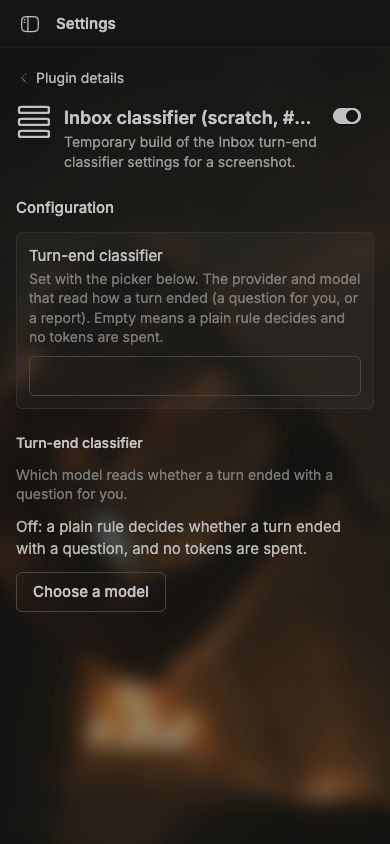
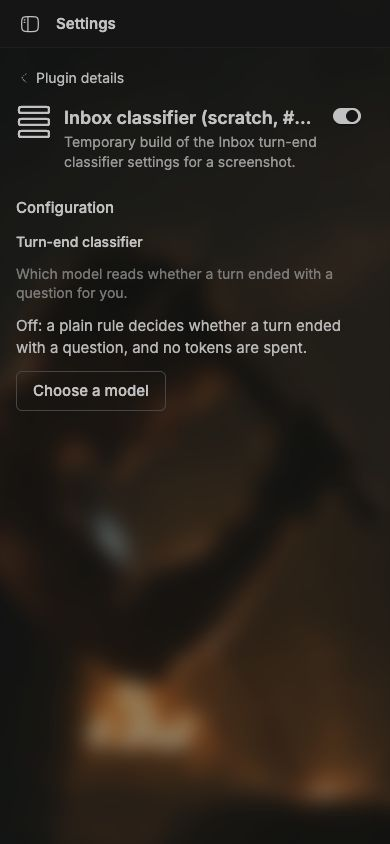
Keep the classifier choice in plugin KV, not a bb setting
The user chose on #20 to hide the raw JSON settings field: the settings
page now shows only bb's model picker with Save / Turn off. The choice is
read and written through getTurnEndClassifier / setTurnEndClassifier, with a
turn-end-classifier realtime nudge so other open settings pages refresh.

Changed region(s): [[0.0308, 0.2773, 0.9231, 0.7085]]

diff --git a/server/classifier/selection.ts b/server/classifier/selection.ts
@@ -1,13 +1,16 @@
 import type { BbPluginApi } from "@get-bb/plugin-sdk";
 import { z } from "zod";
 
-// The provider, model and reasoning level the helper thread runs on, held in
-// one plugin setting as JSON. Empty (the default) means no provider: the
-// heuristic decides and no tokens are spent. The settings page sets it with
-// bb's provider/model picker (app/classifier/ClassifierSettingsSection.tsx);
-// `bb plugin config inbox set turnEndClassifier ""` turns it off.
+// The provider, model and reasoning level the helper thread runs on. Kept in
+// the plugin's KV rather than a bb setting, so the settings page shows only
+// bb's model picker and no raw JSON field (the user's call on #20). Unset
+// (the default) means no provider: the heuristic decides and no tokens are
+// spent. The settings page sets it (app/classifier/ClassifierSettingsSection.tsx)
+// through the `setTurnEndClassifier` rpc.
 
-export const SELECTION_SETTING = "turnEndClassifier";
+const SELECTION_KV_KEY = "classifier:selection";
+
+export const SELECTION_CHANGED_CHANNEL = "turn-end-classifier";
 
 export const selectionSchema = z
   .object({
@@ -20,48 +23,18 @@ export const selectionSchema = z
 
 export type ClassifierSelection = z.infer<typeof selectionSchema>;
 
-export function parseSelection(raw: string): ClassifierSelection | null {
-  if (raw.trim() === "") return null;
-  try {
-    const parsed = selectionSchema.safeParse(JSON.parse(raw));
-    return parsed.success ? parsed.data : null;
-  } catch {
-    return null;
-  }
-}
-
-export function serializeSelection(selection: ClassifierSelection | null): string {
-  return selection === null ? "" : JSON.stringify(selection);
-}
-
-export function defineSelectionSetting(bb: BbPluginApi) {
-  const settings = bb.settings.define({
-    [SELECTION_SETTING]: {
-      type: "string",
-      label: "Turn-end classifier",
-      description:
-        "Set with the picker below. The provider and model that read how a turn ended (a question for you, or a report). Empty means a plain rule decides and no tokens are spent.",
-      default: "",
-      experimental_schema: z
-        .string()
-        .refine(
-          (value) => value.trim() === "" || parseSelection(value) !== null,
-          "Must be empty, or JSON with providerId, model and reasoningLevel",
-        ),
-    },
-  });
-
+export function createSelectionStore(bb: BbPluginApi) {
   return {
     async get(): Promise<ClassifierSelection | null> {
-      const values = await settings.get();
-      return parseSelection(values[SELECTION_SETTING]);
+      const parsed = selectionSchema.safeParse(
+        await bb.storage.kv.get<unknown>(SELECTION_KV_KEY),
+      );
+      return parsed.success ? parsed.data : null;
     },
     async set(selection: ClassifierSelection | null): Promise<void> {
-      await settings.experimental_set({
-        [SELECTION_SETTING]: serializeSelection(selection),
-      });
+      if (selection === null) await bb.storage.kv.delete(SELECTION_KV_KEY);
+      else await bb.storage.kv.set(SELECTION_KV_KEY, selection);
+      bb.realtime.publish(SELECTION_CHANGED_CHANNEL, { selection });
     },
   };
 }
-
-export type SelectionSetting = ReturnType<typeof defineSelectionSetting>;

diff --git a/app/classifier/ClassifierSettingsSection.tsx b/app/classifier/ClassifierSettingsSection.tsx
@@ -1,16 +1,15 @@
 import {
   experimental_ProviderModelPicker as ProviderModelPicker,
   experimental_useProviders,
+  useRealtime,
   useRpc,
-  useSettings,
   type ExperimentalProviderModelPickerValue,
 } from "@get-bb/plugin-sdk/app";
-import { useState } from "react";
+import { useCallback, useEffect, useRef, useState } from "react";
 import { Button } from "@/components/ui/button";
 import type { turnEndRpcContract } from "../../server/classifier/index.js";
 import {
-  parseSelection,
-  SELECTION_SETTING,
+  SELECTION_CHANGED_CHANNEL,
   type ClassifierSelection,
 } from "../../server/classifier/selection.js";
 
@@ -20,20 +19,34 @@ import {
 // seed against the live catalog, and that must never start spending tokens.
 
 export function ClassifierSettingsSection() {
-  const { values, isLoading } = useSettings();
   const rpc = useRpc<typeof turnEndRpcContract>();
   const providers = experimental_useProviders();
-  const saved = parseSelection(String(values?.[SELECTION_SETTING] ?? ""));
+  // undefined while loading; null when off.
+  const [saved, setSaved] = useState<ClassifierSelection | null | undefined>(undefined);
   const [editing, setEditing] = useState(false);
   const [draft, setDraft] = useState<ExperimentalProviderModelPickerValue | null>(null);
   const [saving, setSaving] = useState(false);
   const [error, setError] = useState<string | null>(null);
 
+  const rpcRef = useRef(rpc);
+  rpcRef.current = rpc;
+  const load = useCallback(async () => {
+    try {
+      setSaved((await rpcRef.current.call("getTurnEndClassifier", null)).selection);
+    } catch (cause) {
+      setError(cause instanceof Error ? cause.message : String(cause));
+    }
+  }, []);
+  useEffect(() => {
+    void load();
+  }, [load]);
+  useRealtime(SELECTION_CHANGED_CHANNEL, () => void load());
+
   async function save(selection: ClassifierSelection | null) {
     setSaving(true);
     setError(null);
     try {
-      await rpc.call("setTurnEndClassifier", { selection });
+      setSaved((await rpc.call("setTurnEndClassifier", { selection })).selection);
       setDraft(null);
       setEditing(false);
     } catch (cause) {
@@ -43,7 +56,9 @@ export function ClassifierSettingsSection() {
     }
   }
 
-  if (isLoading) return null;
+  if (saved === undefined) {
+    return error ? <p className="text-sm text-destructive">{error}</p> : null;
+  }
 
   const firstProvider = providers.providers.find((provider) => provider.available);
   const pickerValue: ExperimentalProviderModelPickerValue | null =

diff --git a/server/classifier/classifier.test.ts b/server/classifier/classifier.test.ts
@@ -52,9 +52,6 @@ function helperThread(id = `thr_helper${(helperCount += 1)}`): Thread {
 async function setup(options: Setup = {}) {
   const { bb, harness } = createFakePluginHost({
     pluginId: PLUGIN_ID,
-    settings: options.provider
-      ? { turnEndClassifier: JSON.stringify(SELECTION) }
-      : {},
     sdk: {
       projects: {
         list: async () =>
@@ -83,6 +80,7 @@ async function setup(options: Setup = {}) {
       },
     },
   });
+  if (options.provider) await bb.storage.kv.set("classifier:selection", SELECTION);
   if (options.watermark !== undefined) {
     await bb.storage.kv.set("turnEnd:watermark", options.watermark);
   }
@@ -613,11 +611,21 @@ describe("turn-end classifier: the turnEnds rpc", () => {
     ).resolves.toEqual({ thr_helper_x: null, thr_archived: null, thr_hidden: null });
   });
 
-  it("turns the helper on and off through the setting the picker writes", async () => {
+  it("turns the helper on and off through the rpc the picker's Save writes", async () => {
     const host = await start({ provider: false, spawn: recordingSpawn() }, 30);
+    await expect(
+      host.harness.behavior.callRpc("getTurnEndClassifier", null),
+    ).resolves.toEqual({ selection: null });
     await expect(
       host.harness.behavior.callRpc("setTurnEndClassifier", { selection: SELECTION }),
     ).resolves.toEqual({ selection: SELECTION });
+    await expect(
+      host.harness.behavior.callRpc("getTurnEndClassifier", null),
+    ).resolves.toEqual({ selection: SELECTION });
+    expect(host.harness.realtimeSignals).toContainEqual({
+      channel: "turn-end-classifier",
+      payload: { selection: SELECTION },
+    });
     await host.harness.behavior.emitThreadEvent("thread.idle", {
       thread: thread({ latestAttentionAt: 1 }),
       lastAssistantText: "Done.",
@@ -627,6 +635,9 @@ describe("turn-end classifier: the turnEnds rpc", () => {
 
     await expect(
       host.harness.behavior.callRpc("setTurnEndClassifier", { selection: null }),
+    ).resolves.toEqual({ selection: null });
+    await expect(
+      host.harness.behavior.callRpc("getTurnEndClassifier", null),
     ).resolves.toEqual({ selection: null });
     await host.harness.behavior.emitThreadEvent("thread.idle", {
       thread: thread({ latestAttentionAt: 2 }),

diff --git a/app/classifier/ClassifierSettingsSection.test.tsx b/app/classifier/ClassifierSettingsSection.test.tsx
@@ -16,15 +16,15 @@ const SELECTION = {
   reasoningLevel: "low",
 };
 
-function render(saved: string) {
+function render(saved: typeof SELECTION | null) {
   const calls: unknown[] = [];
   const slot = renderSlot(section, {}, {
-    settings: { turnEndClassifier: saved },
     providers: {
       status: "ready",
       providers: [{ id: "claude-code", available: true, displayName: "Claude Code" }] as never,
     },
     rpc: {
+      getTurnEndClassifier: () => ({ selection: saved }),
       setTurnEndClassifier: (input: unknown) => {
         calls.push(input);
         return input;
@@ -40,14 +40,14 @@ describe("turn-end classifier settings section", () => {
   });
 
   it("is off by default and shows no picker until the user asks for one", async () => {
-    const { slot } = render("");
+    const { slot } = render(null);
     await slot.findByText(/no tokens are spent/u);
     expect(slot.queryByTestId("bb-provider-model-picker")).toBeNull();
     expect(slot.queryByRole("button", { name: "Turn off" })).toBeNull();
   });
 
   it("saves nothing when the picker emits a value; only Save writes the setting", async () => {
-    const { slot, calls } = render("");
+    const { slot, calls } = render(null);
     fireEvent.click(await slot.findByRole("button", { name: "Choose a model" }));
     fireEvent.change(slot.getByLabelText("Model"), {
       target: { value: "claude-haiku-5-5" },
@@ -59,14 +59,14 @@ describe("turn-end classifier settings section", () => {
   });
 
   it("can't save a pick with no model", async () => {
-    const { slot } = render("");
+    const { slot } = render(null);
     fireEvent.click(await slot.findByRole("button", { name: "Choose a model" }));
     fireEvent.click(slot.getByRole("button", { name: "Apply execution selection" }));
     expect((slot.getByRole("button", { name: "Save" }) as HTMLButtonElement).disabled).toBe(true);
   });
 
   it("shows the saved model and turns it off", async () => {
-    const { slot, calls } = render(JSON.stringify(SELECTION));
+    const { slot, calls } = render(SELECTION);
     expect(((await slot.findByLabelText("Model")) as HTMLInputElement).value).toBe(
       "claude-haiku-5-5",
     );

diff --git a/server/classifier/index.ts b/server/classifier/index.ts
@@ -4,7 +4,7 @@ import { z } from "zod";
 import { eventUsesGrilling, GRILLING_EVENT_TYPES } from "./grilling.js";
 import { classifyTurnEnd, type TurnEndVerdict } from "./heuristic.js";
 import { createHelperRunner, type HelperOutcome } from "./helper.js";
-import { defineSelectionSetting, selectionSchema } from "./selection.js";
+import { createSelectionStore, selectionSchema } from "./selection.js";
 import {
   createTurnEndStore,
   publicTurnEnd,
@@ -27,6 +27,10 @@ export const turnEndRpcContract = defineRpcContract({
   turnEnds: {
     input: z.object({ keys: z.array(z.string().min(1)).max(500) }).strict(),
     output: z.record(z.string(), turnEndSchema.nullable()),
+  },
+  getTurnEndClassifier: {
+    input: z.null(),
+    output: z.object({ selection: selectionSchema.nullable() }).strict(),
   },
   setTurnEndClassifier: {
     input: z.object({ selection: selectionSchema.nullable() }).strict(),
@@ -66,7 +70,7 @@ export function registerTurnEndClassifier(
   options: TurnEndClassifierOptions = {},
 ) {
   const store = createTurnEndStore(bb);
-  const selection = defineSelectionSetting(bb);
+  const selection = createSelectionStore(bb);
   const runner = createHelperRunner(bb, {
     timeoutMs: options.helperTimeoutMs ?? DEFAULT_HELPER_TIMEOUT_MS,
   });
@@ -230,6 +234,9 @@ export function registerTurnEndClassifier(
         }),
       );
       return rows;
+    },
+    async getTurnEndClassifier() {
+      return { selection: await selection.get() };
     },
     async setTurnEndClassifier({ selection: next }) {
       await selection.set(next);

diff --git a/skills/inbox-classifier/SKILL.md b/skills/inbox-classifier/SKILL.md
@@ -12,9 +12,9 @@ decide a child thread's audience (ADR 0008).
 
 ## Choosing the model
 
-The `turnEndClassifier` plugin setting holds the provider, model and reasoning
-level, as JSON. Set it in Settings → Installed plugins → Inbox → Turn-end
-classifier with bb's model picker, then Save.
+The plugin keeps the provider, model and reasoning level in its own storage
+(not a bb setting, so no raw JSON field shows). Set it in Settings → Installed
+plugins → Inbox → Turn-end classifier with bb's model picker, then Save.
 
 - Empty (the default): a plain rule decides, does the last message end with a
   question to the user? No tokens are spent.
@@ -23,7 +23,9 @@ classifier with bb's model picker, then Save.
   one word, and is archived and stopped. If it fails, times out (90s) or gives
   no clear answer, the plain rule decides.
 
-Turn it off from the CLI with `bb plugin config inbox set turnEndClassifier ""`.
+From the CLI, read it with `bb plugin rpc call inbox getTurnEndClassifier`
+and turn it off with `bb plugin rpc call inbox setTurnEndClassifier
+--input-file <file>` where the file holds `{"selection": null}`.
 
 At startup the plugin catches up on turn ends it missed while unloaded. A first
 install uses the plain rule for all of them; later, at most 10 missed turn ends
